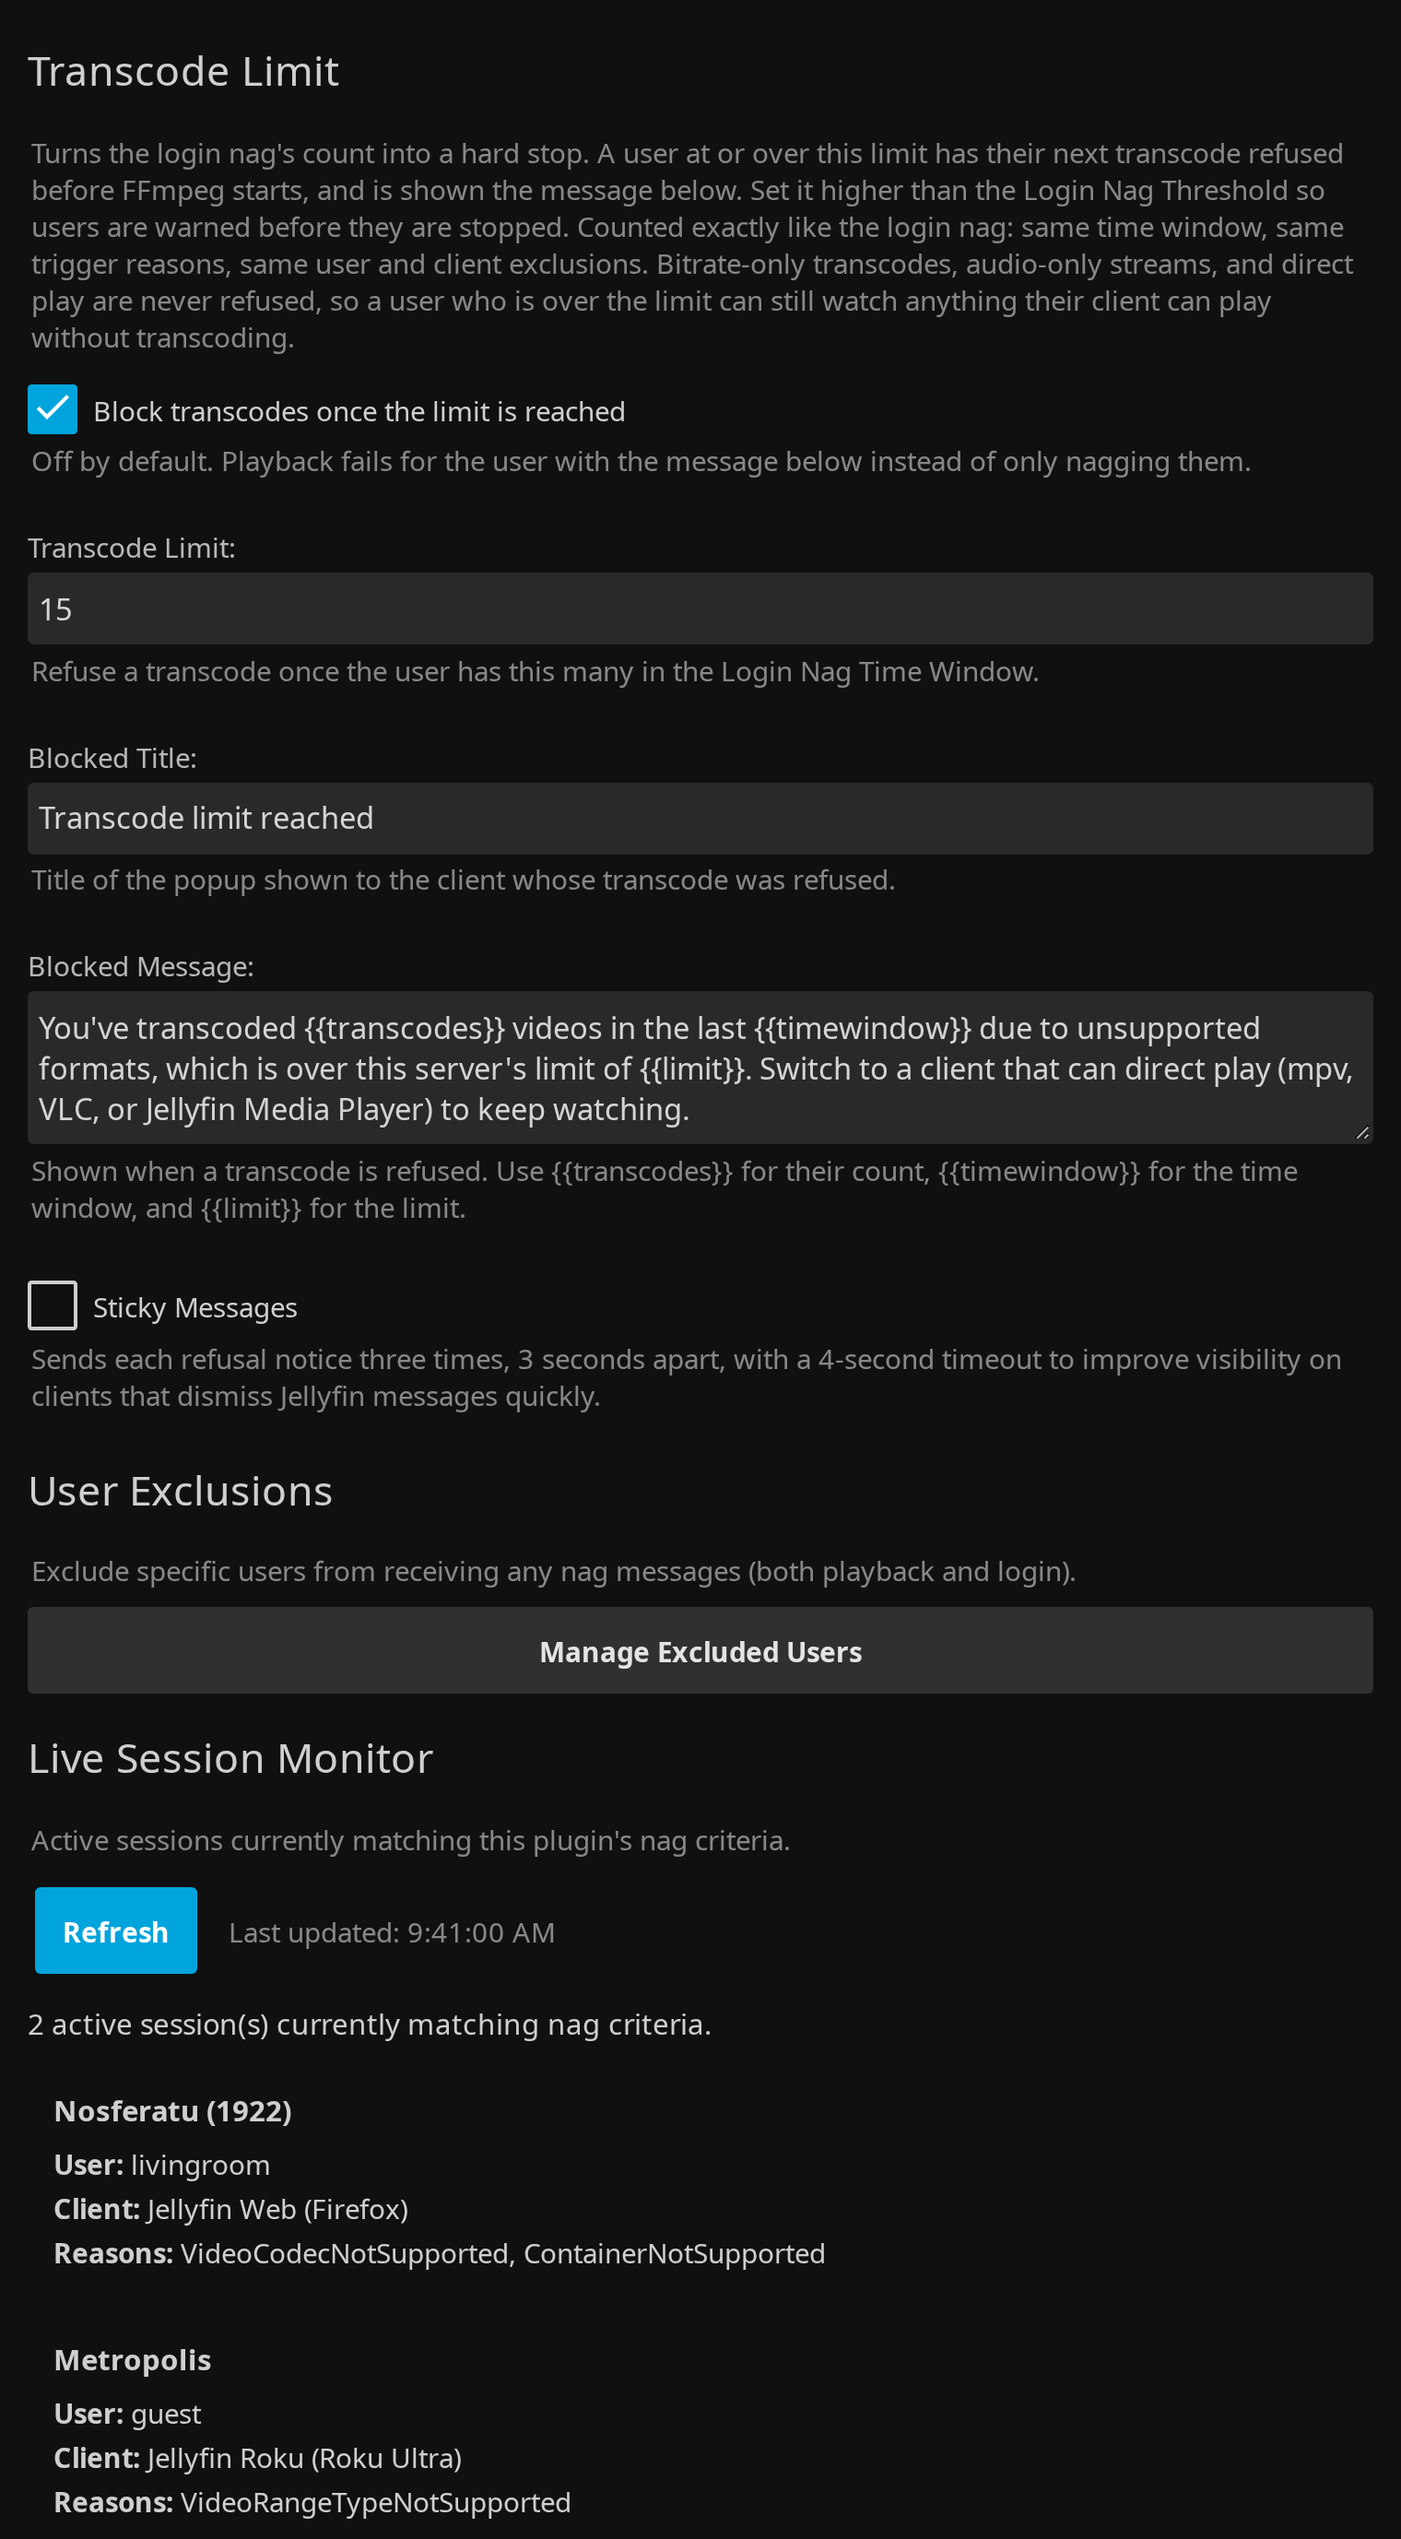
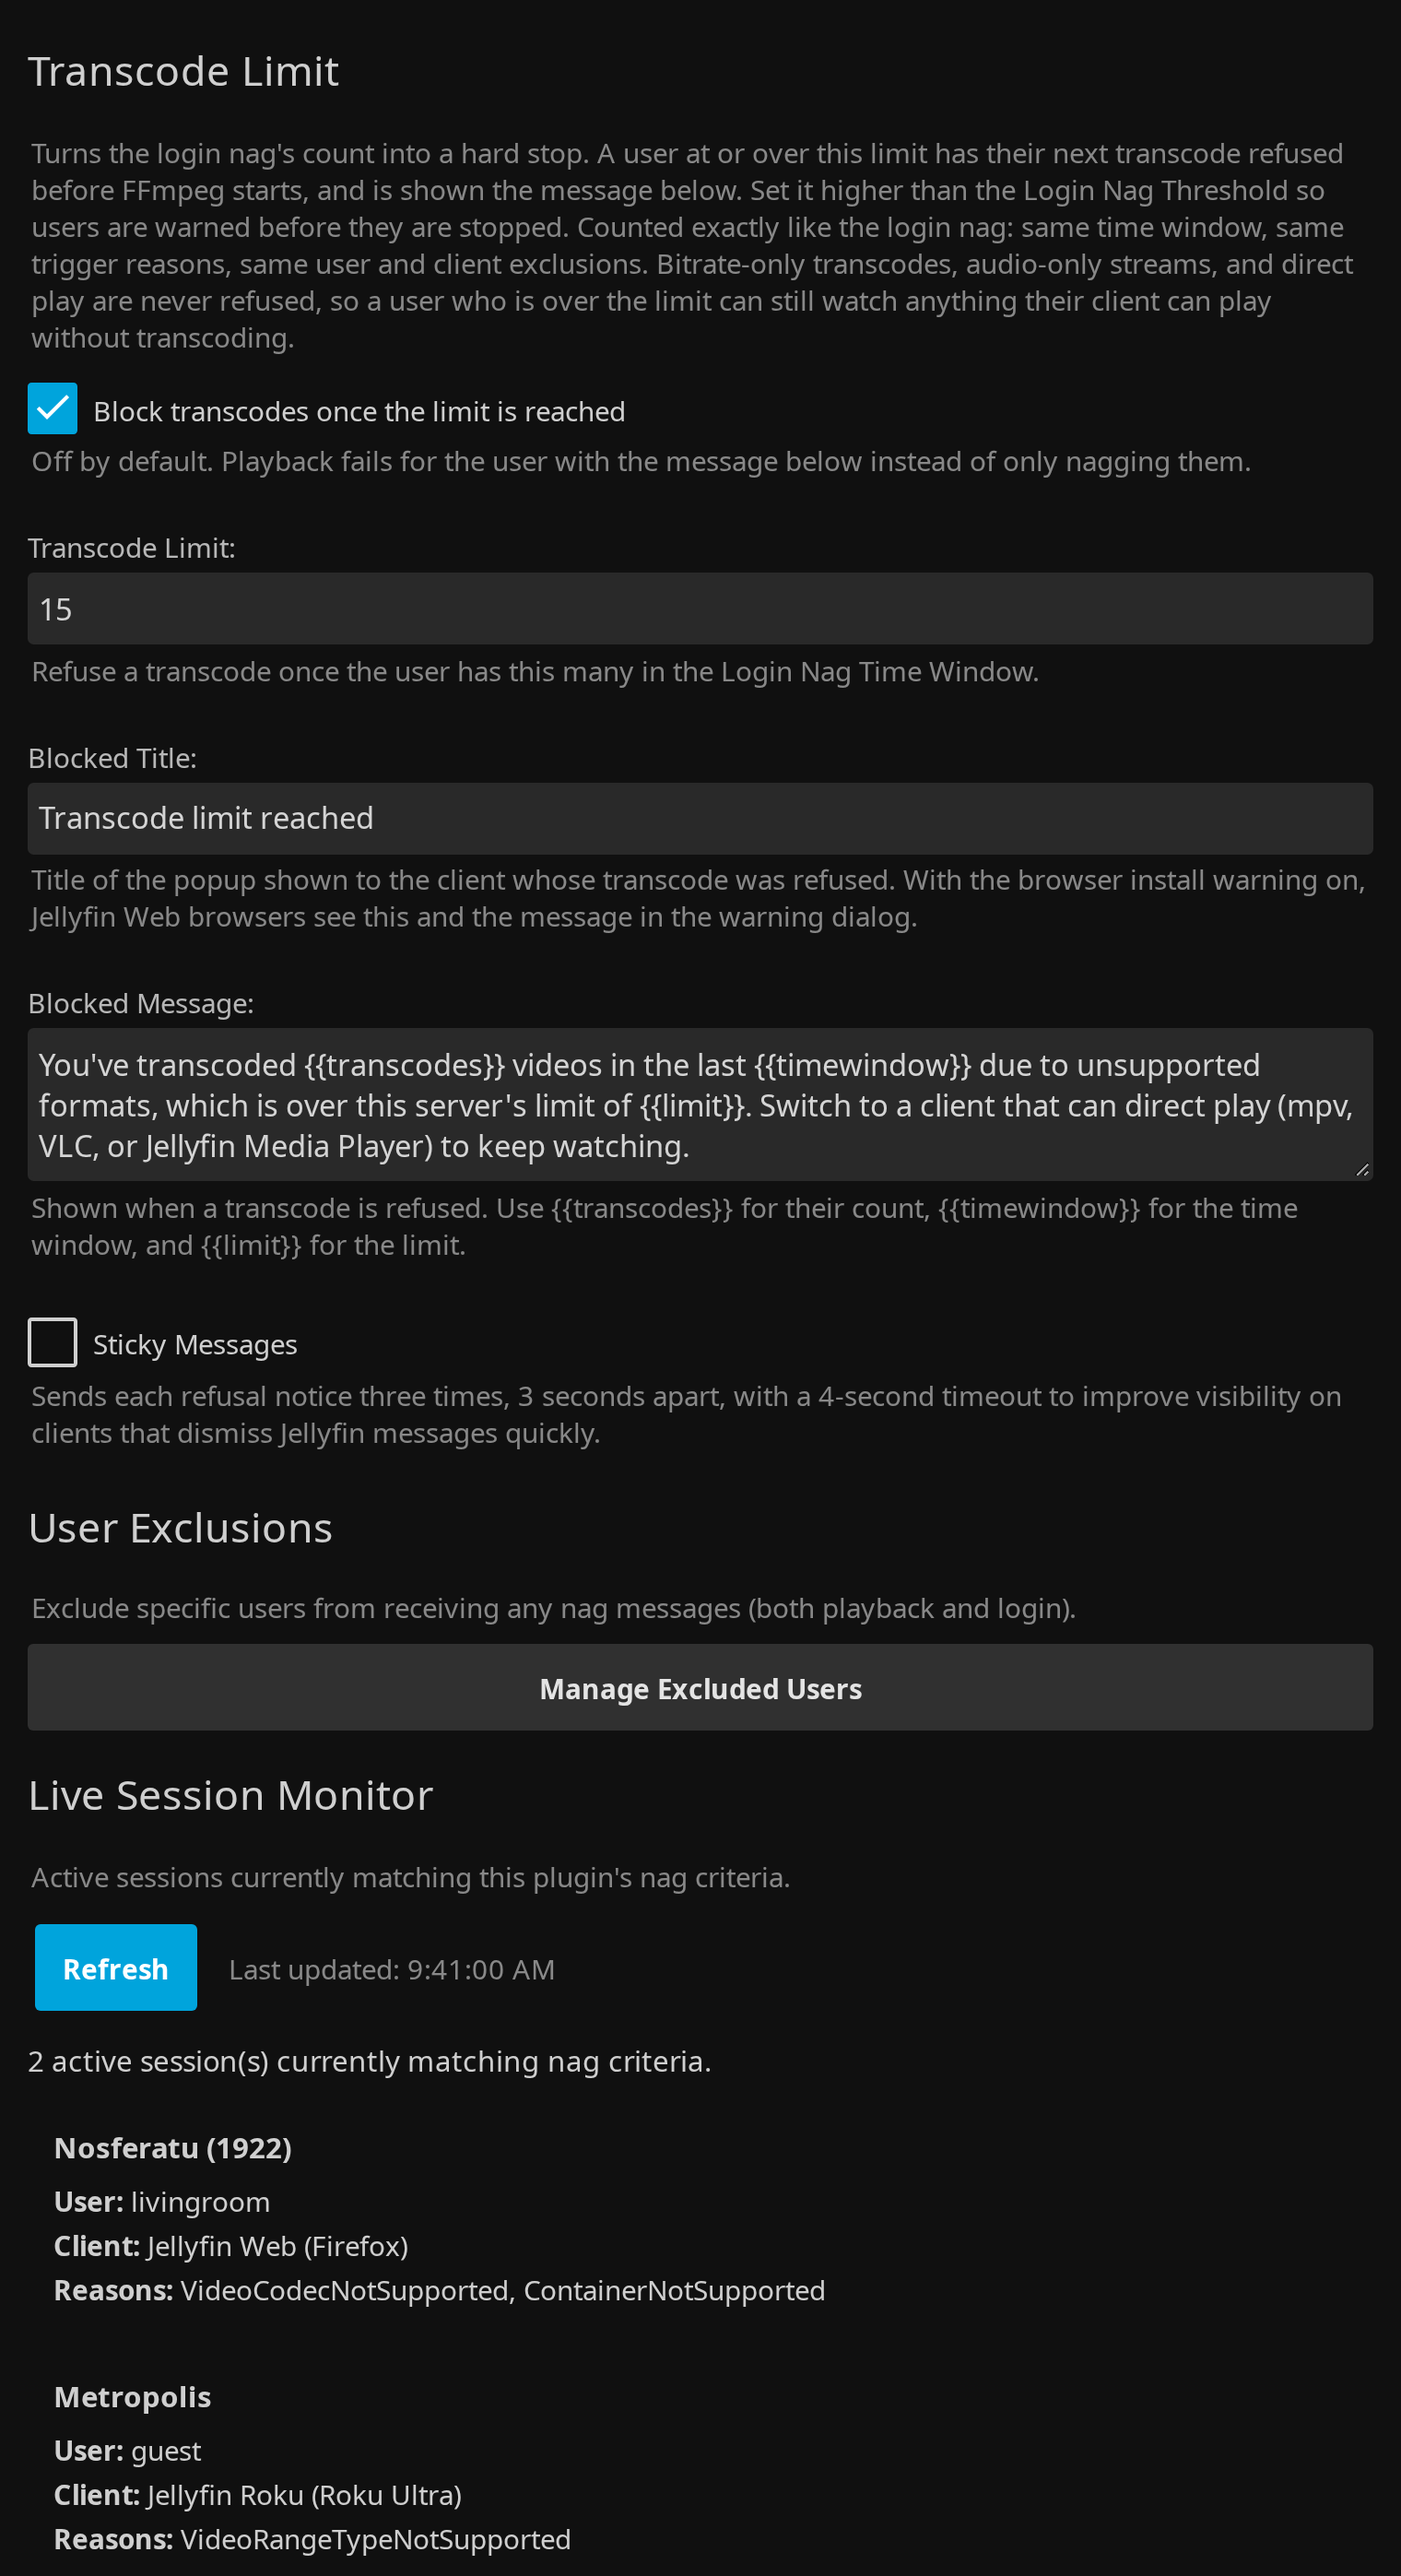
docs(screenshots): add the simultaneous transcodes shot
Captured with the jellyfin-plugins harness at the usual 760px, 2x framing,
from Simultaneous Transcodes to GPU Resource Guard, with a global maximum of
2 and one per-user override in each direction.

The same run refreshes two shots that had gone stale: the browser warning
work lengthened the Blocked Title and Refusal Title descriptions by a line
in the transcode limit and GPU guard sections, and neither was recaptured.
The login and paused reaper shots differed only in anti-aliasing and are
left as they were.

diff --git a/README.md b/README.md
@@ -60,6 +60,13 @@ A Jellyfin plugin that intelligently nags users when they're transcoding due to 
 </p>
 
 <p align="center">
+  <img src="docs/images/transcode-guard-simultaneous-transcodes.png" alt="Transcode Guard simultaneous transcode settings with a global maximum and per-user maximums in the Jellyfin dashboard" width="880" />
+</p>
+<p align="center">
+  <em>How many transcodes each user can run at once, with per-user overrides</em>
+</p>
+
+<p align="center">
   <img src="docs/images/transcode-guard-gpu-guard.png" alt="Transcode Guard GPU resource guard settings in the Jellyfin dashboard" width="880" />
 </p>
 <p align="center">
